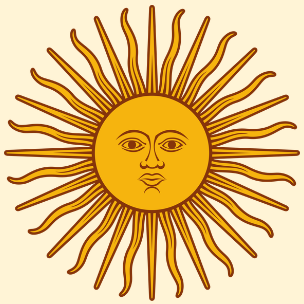
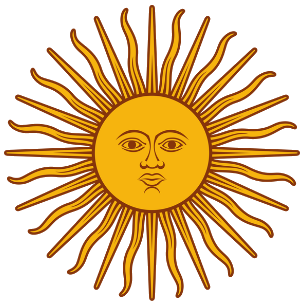
Estilo vidrio en toda la app y Sol de Mayo con fondo transparente
Solo local, nada subido a GitHub.

diff --git a/css/styles.css b/css/styles.css
@@ -575,10 +575,12 @@ body[data-view="home"] .app-main { padding-bottom: 88px; }
   fill: none; stroke: currentColor; stroke-width: 2; stroke-linecap: round; stroke-linejoin: round;
 }
 
-/* ---- Estilo "vidrio" (prueba: Inicio del modo Clásico) ----
-   Se activa con body.estilo-vidrio (lo pone renderHome en app.js). Mismos colores de la paleta, pero con fondo degradado,
-   tarjetas y barra de vidrio (translúcidas con desenfoque). Si el celular no soporta el desenfoque, o se pidió menos
-   transparencia, cae a colores sólidos (ver el final de esta sección). */
+/* ---- Estilo "vidrio" (toda la app) ----
+   Se activa con la clase estilo-vidrio del <body> (en index.html; sacándola vuelve el estilo plano de antes). Mismos
+   colores de la paleta, pero con fondo degradado y tarjetas, botones y barra de vidrio (translúcidos).
+   El desenfoque (backdrop-filter) solo va en pocos elementos grandes (encabezado, barra, tarjetas de Inicio, tarjetas
+   de contenido, hoja del nivel): en las listas largas y en los 164 niveles del mapa sería pesado para celulares viejos.
+   Si el celular no soporta el desenfoque, o se pidió menos transparencia, cae a colores sólidos (final de la sección). */
 body.estilo-vidrio::before {
   content: ""; position: fixed; inset: 0; z-index: -1; pointer-events: none;
   background:
@@ -637,12 +639,107 @@ body.estilo-vidrio .home-cta .home-cta-arrow { color: #fff; }
 body.estilo-vidrio .home-cta-navy .home-cta-arrow { color: var(--v2-cyan); }
 
 body.estilo-vidrio .nav-bar {
-  background: rgba(255, 255, 255, 0.5); border: 1.5px solid rgba(255, 255, 255, 0.7);
-  box-shadow: 0 10px 30px rgba(29, 42, 68, 0.22), inset 0 1px 0 rgba(255, 255, 255, 0.7);
+  background: rgba(255, 255, 255, 0.76); border: 1.5px solid rgba(255, 255, 255, 0.85);
+  box-shadow: 0 10px 30px rgba(29, 42, 68, 0.22), inset 0 1px 0 rgba(255, 255, 255, 0.8);
   -webkit-backdrop-filter: blur(20px) saturate(1.5); backdrop-filter: blur(20px) saturate(1.5);
 }
 body.estilo-vidrio .nav-btn { color: var(--v2-navy); opacity: 0.85; }
 body.estilo-vidrio .nav-btn.active { background: rgba(31, 182, 181, 0.88); color: var(--v2-navy); opacity: 1; box-shadow: inset 0 1px 0 rgba(255, 255, 255, 0.45); }
+
+/* ----- El resto de la app ----- */
+/* Pantalla de bienvenida: sin el fondo crema plano, así se ve el degradado */
+body.estilo-vidrio.onboarding-active #onboarding-screen { background: transparent; }
+body.estilo-vidrio .onboarding-input { background: rgba(255, 255, 255, 0.58); border: 1.5px solid rgba(255, 255, 255, 0.8); }
+body.estilo-vidrio .onboarding-continue-btn, body.estilo-vidrio .onboarding-option {
+  background: rgba(29, 42, 68, 0.88); border: 1.5px solid rgba(255, 255, 255, 0.32);
+  box-shadow: inset 0 1px 0 rgba(255, 255, 255, 0.28), 0 6px 16px rgba(29, 42, 68, 0.16);
+}
+
+/* Tarjetas de contenido (pregunta, tarjeta de vocabulario, paneles) */
+body.estilo-vidrio .card {
+  background: rgba(255, 255, 255, 0.52); border: 1.5px solid rgba(255, 255, 255, 0.75); border-radius: 24px;
+  box-shadow: 0 8px 24px rgba(29, 42, 68, 0.12), inset 0 1px 0 rgba(255, 255, 255, 0.7);
+  -webkit-backdrop-filter: blur(14px) saturate(1.3); backdrop-filter: blur(14px) saturate(1.3);
+}
+body.estilo-vidrio .flashcard .back { border-top-color: rgba(29, 42, 68, 0.3); }
+body.estilo-vidrio .lesson {
+  background: rgba(255, 255, 255, 0.5); border: 1.5px solid rgba(255, 255, 255, 0.75); border-left: 4px solid var(--v2-cyan);
+  border-radius: 16px; box-shadow: 0 6px 18px rgba(29, 42, 68, 0.1), inset 0 1px 0 rgba(255, 255, 255, 0.6);
+}
+
+/* Botones: azul oscuro de vidrio (los "ghost" son de vidrio claro con borde) */
+body.estilo-vidrio .btn {
+  background: rgba(29, 42, 68, 0.88); border: 1.5px solid rgba(255, 255, 255, 0.3);
+  box-shadow: inset 0 1px 0 rgba(255, 255, 255, 0.25), 0 4px 12px rgba(29, 42, 68, 0.16);
+}
+body.estilo-vidrio .btn.primary { background: rgba(29, 42, 68, 0.88); }
+body.estilo-vidrio .btn.ghost, body.estilo-vidrio .btn.danger {
+  background: rgba(255, 255, 255, 0.38); border: 1.5px solid rgba(29, 42, 68, 0.55); box-shadow: inset 0 1px 0 rgba(255, 255, 255, 0.6);
+}
+body.estilo-vidrio .btn.option.right { background: rgba(31, 182, 181, 0.94); color: var(--v2-navy); }
+body.estilo-vidrio .btn.option.wrong { background: rgba(212, 205, 206, 0.82); color: var(--v2-navy); opacity: 0.8; }
+body.estilo-vidrio .btn:disabled { opacity: 0.55; }
+
+/* Campos de texto */
+body.estilo-vidrio .text-input { background: rgba(255, 255, 255, 0.62); border: 1.5px solid rgba(255, 255, 255, 0.85); box-shadow: inset 0 1px 3px rgba(29, 42, 68, 0.08); }
+body.estilo-vidrio .text-input:focus { border-color: var(--v2-cyan); }
+body.estilo-vidrio .text-input.right { border-color: var(--v2-cyan); }
+body.estilo-vidrio .text-input.wrong { border-color: var(--v2-navy); }
+
+/* Aviso de acierto / error */
+body.estilo-vidrio .feedback { border-radius: 18px; }
+body.estilo-vidrio .feedback.ok {
+  background: rgba(255, 255, 255, 0.62); border: 1.5px solid rgba(255, 255, 255, 0.85); border-left: 5px solid var(--v2-cyan);
+  box-shadow: 0 6px 16px rgba(29, 42, 68, 0.1);
+}
+body.estilo-vidrio .feedback.no { background: rgba(29, 42, 68, 0.88); border: 1.5px solid rgba(255, 255, 255, 0.3); }
+
+/* Filtros, listas de temas, fichas */
+body.estilo-vidrio .filter-tab { background: rgba(255, 255, 255, 0.42); border: 1.5px solid rgba(255, 255, 255, 0.75); }
+body.estilo-vidrio .filter-tab.active { background: rgba(31, 182, 181, 0.9); border-color: rgba(255, 255, 255, 0.5); }
+body.estilo-vidrio .topic-card {
+  background: rgba(29, 42, 68, 0.8); border: 1.5px solid rgba(255, 255, 255, 0.35); border-radius: 24px;
+  box-shadow: 0 8px 22px rgba(29, 42, 68, 0.16), inset 0 1px 0 rgba(255, 255, 255, 0.3);
+}
+body.estilo-vidrio .topic-card.done { border: 2px solid var(--v2-cyan); }
+body.estilo-vidrio .order-answer { background: rgba(255, 255, 255, 0.5); border: 2px solid rgba(255, 255, 255, 0.8); }
+body.estilo-vidrio .order-answer.right { border-color: var(--v2-cyan); }
+body.estilo-vidrio .order-answer.wrong { border-color: var(--v2-navy); }
+body.estilo-vidrio .chip { background: rgba(29, 42, 68, 0.88); border: 1.5px solid rgba(255, 255, 255, 0.3); }
+body.estilo-vidrio .order-answer .chip { background: rgba(31, 182, 181, 0.94); }
+body.estilo-vidrio .match-item { background: rgba(29, 42, 68, 0.88); border: 2px solid rgba(255, 255, 255, 0.3); }
+body.estilo-vidrio .match-item.selected { border-color: var(--v2-cyan); }
+body.estilo-vidrio .match-item.right { background: rgba(31, 182, 181, 0.94); border-color: rgba(255, 255, 255, 0.4); }
+body.estilo-vidrio .match-item.wrong { background: rgba(212, 205, 206, 0.9); border-color: rgba(255, 255, 255, 0.5); }
+
+/* Aventura: mapa, niveles, cartel, hoja del nivel, barra de avance */
+body.estilo-vidrio .av-info {
+  background: rgba(255, 255, 255, 0.46); border-bottom: 1.5px solid rgba(255, 255, 255, 0.7);
+  -webkit-backdrop-filter: blur(12px); backdrop-filter: blur(12px);
+}
+body.estilo-vidrio .av-cartel { background: rgba(29, 42, 68, 0.86); border: 1.5px solid rgba(255, 255, 255, 0.4); box-shadow: 0 6px 16px rgba(29, 42, 68, 0.2); }
+body.estilo-vidrio .av-punto {
+  background: rgba(29, 42, 68, 0.92); border: 2px solid rgba(255, 255, 255, 0.5);
+  box-shadow: 0 5px 12px rgba(29, 42, 68, 0.26), inset 0 1px 0 rgba(255, 255, 255, 0.35);
+}
+body.estilo-vidrio .av-nodo.hecho .av-punto { background: rgba(31, 182, 181, 0.96); }
+body.estilo-vidrio .av-nodo.bloqueado .av-punto { background: rgba(255, 255, 255, 0.62); border-color: rgba(255, 255, 255, 0.85); box-shadow: none; }
+body.estilo-vidrio .av-nodo.actual .av-punto { box-shadow: 0 0 0 5px rgba(255, 255, 255, 0.85), 0 0 0 9px var(--v2-cyan); }
+body.estilo-vidrio .av-pie { background: rgba(255, 255, 255, 0.72); }
+body.estilo-vidrio .av-hoja {
+  background: rgba(29, 42, 68, 0.88); border: 1.5px solid rgba(255, 255, 255, 0.35); border-radius: 26px;
+  box-shadow: 0 14px 36px rgba(29, 42, 68, 0.3), inset 0 1px 0 rgba(255, 255, 255, 0.3);
+  -webkit-backdrop-filter: blur(16px) saturate(1.3); backdrop-filter: blur(16px) saturate(1.3);
+}
+body.estilo-vidrio .av-hoja .btn.primary { background: rgba(31, 182, 181, 0.96); }
+body.estilo-vidrio .av-hoja .btn.ghost { background: transparent; border-color: rgba(255, 244, 214, 0.7); }
+body.estilo-vidrio .av-barra { background: rgba(255, 255, 255, 0.6); }
+
+/* Aviso que aparece un momento ("Guardado") */
+body.estilo-vidrio .toast {
+  background: rgba(29, 42, 68, 0.9); border: 1.5px solid rgba(255, 255, 255, 0.3);
+  -webkit-backdrop-filter: blur(12px); backdrop-filter: blur(12px);
+}
 
 /* Sin soporte de desenfoque, o si se pidió menos transparencia: colores sólidos (se ve parecido, sin vidrio) */
 @supports not ((-webkit-backdrop-filter: blur(1px)) or (backdrop-filter: blur(1px))) {
@@ -650,13 +747,20 @@ body.estilo-vidrio .nav-btn.active { background: rgba(31, 182, 181, 0.88); color
   body.estilo-vidrio .home-card-cyan { background: #d9f1e6; }
   body.estilo-vidrio .home-card-pink { background: #e1dbd5; }
   body.estilo-vidrio .nav-bar, body.estilo-vidrio .modo-selector { background: #f2ece0; }
+  body.estilo-vidrio .app-header { background: #f6efdc; }
+  body.estilo-vidrio .card, body.estilo-vidrio .av-info { background: #f4eee3; }
+  body.estilo-vidrio .av-hoja, body.estilo-vidrio .toast { background: #1d2a44; }
 }
 @media (prefers-reduced-transparency: reduce) {
   body.estilo-vidrio .home-card-navy { background: #2f3a52; }
   body.estilo-vidrio .home-card-cyan { background: #d9f1e6; }
   body.estilo-vidrio .home-card-pink { background: #e1dbd5; }
   body.estilo-vidrio .nav-bar, body.estilo-vidrio .modo-selector { background: #f2ece0; }
-  body.estilo-vidrio .home-card, body.estilo-vidrio .nav-bar, body.estilo-vidrio .app-header, body.estilo-vidrio .lang-badge, body.estilo-vidrio .modo-selector {
+  body.estilo-vidrio .app-header { background: #f6efdc; }
+  body.estilo-vidrio .card, body.estilo-vidrio .av-info { background: #f4eee3; }
+  body.estilo-vidrio .av-hoja, body.estilo-vidrio .toast { background: #1d2a44; }
+  body.estilo-vidrio .home-card, body.estilo-vidrio .nav-bar, body.estilo-vidrio .app-header, body.estilo-vidrio .lang-badge, body.estilo-vidrio .modo-selector,
+  body.estilo-vidrio .card, body.estilo-vidrio .av-info, body.estilo-vidrio .av-hoja, body.estilo-vidrio .toast {
     -webkit-backdrop-filter: none; backdrop-filter: none;
   }
 }

diff --git a/index.html b/index.html
@@ -14,9 +14,9 @@
   <link rel="preconnect" href="https://fonts.googleapis.com" />
   <link rel="preconnect" href="https://fonts.gstatic.com" crossorigin />
   <link href="https://fonts.googleapis.com/css2?family=Space+Grotesk:wght@400;500;600;700&display=swap" rel="stylesheet" />
-  <link rel="stylesheet" href="css/styles.css?v=38" />
+  <link rel="stylesheet" href="css/styles.css?v=40" />
 </head>
-<body>
+<body class="estilo-vidrio">
   <div id="onboarding-screen" class="onboarding-screen"></div>
   <div id="provincia-screen" class="provincia-screen"></div>
 
@@ -56,29 +56,29 @@
   </nav>
 
   <!-- datos -->
-  <script src="data/vocab.data.js?v=38"></script>
-  <script src="data/grammar.data.js?v=38"></script>
-  <script src="data/grammar.de.data.js?v=38"></script>
-  <script src="data/produccion.data.js?v=38"></script>
-  <script src="data/provincias.data.js?v=38"></script>
-  <script src="data/verbos.data.js?v=38"></script>
-  <script src="data/camino.data.js?v=38"></script>
-  <script src="data/mapa.data.js?v=38"></script>
+  <script src="data/vocab.data.js?v=40"></script>
+  <script src="data/grammar.data.js?v=40"></script>
+  <script src="data/grammar.de.data.js?v=40"></script>
+  <script src="data/produccion.data.js?v=40"></script>
+  <script src="data/provincias.data.js?v=40"></script>
+  <script src="data/verbos.data.js?v=40"></script>
+  <script src="data/camino.data.js?v=40"></script>
+  <script src="data/mapa.data.js?v=40"></script>
   <!-- lógica -->
-  <script src="js/storage.js?v=38"></script>
-  <script src="js/i18n.js?v=38"></script>
-  <script src="js/streak.js?v=38"></script>
-  <script src="js/util.js?v=38"></script>
-  <script src="js/exercise.js?v=38"></script>
-  <script src="js/conjugador.js?v=38"></script>
-  <script src="js/formats.js?v=38"></script>
-  <script src="js/dificultad.js?v=38"></script>
-  <script src="js/mapa.js?v=38"></script>
-  <script src="js/aventura.js?v=38"></script>
-  <script src="js/vocab.js?v=38"></script>
-  <script src="js/grammar.js?v=38"></script>
-  <script src="js/produccion.js?v=38"></script>
-  <script src="js/lectura.js?v=38"></script>
-  <script src="js/app.js?v=38"></script>
+  <script src="js/storage.js?v=40"></script>
+  <script src="js/i18n.js?v=40"></script>
+  <script src="js/streak.js?v=40"></script>
+  <script src="js/util.js?v=40"></script>
+  <script src="js/exercise.js?v=40"></script>
+  <script src="js/conjugador.js?v=40"></script>
+  <script src="js/formats.js?v=40"></script>
+  <script src="js/dificultad.js?v=40"></script>
+  <script src="js/mapa.js?v=40"></script>
+  <script src="js/aventura.js?v=40"></script>
+  <script src="js/vocab.js?v=40"></script>
+  <script src="js/grammar.js?v=40"></script>
+  <script src="js/produccion.js?v=40"></script>
+  <script src="js/lectura.js?v=40"></script>
+  <script src="js/app.js?v=40"></script>
 </body>
 </html>

diff --git a/js/app.js b/js/app.js
@@ -186,7 +186,6 @@ function setupNav() {
 function showView(name) {
   currentView = name;
   document.body.dataset.view = name;
-  document.body.classList.remove("estilo-vidrio"); // lo vuelve a poner renderHome si corresponde
   document.querySelectorAll(".view").forEach((v) => v.classList.toggle("active", v.id === "view-" + name));
   // Las demás pantallas cuelgan de Inicio: el botón activo es Inicio, salvo en Ajustes
   const botonActivo = name === "ajustes" ? "ajustes" : "home";
@@ -267,8 +266,6 @@ function tarjetaAventura() {
 
 function renderHome(host) {
   clear(host);
-  // Prueba de diseño: Inicio del modo Clásico con el estilo "vidrio" (ver css/styles.css)
-  document.body.classList.toggle("estilo-vidrio", modoActual() === "clasico");
   const s = Store.settings();
   const v = Vocab.stats();
   const p = Produccion.stats();
